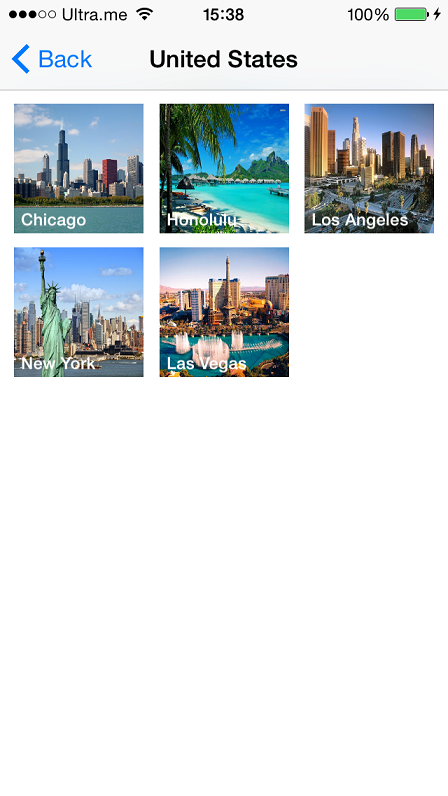
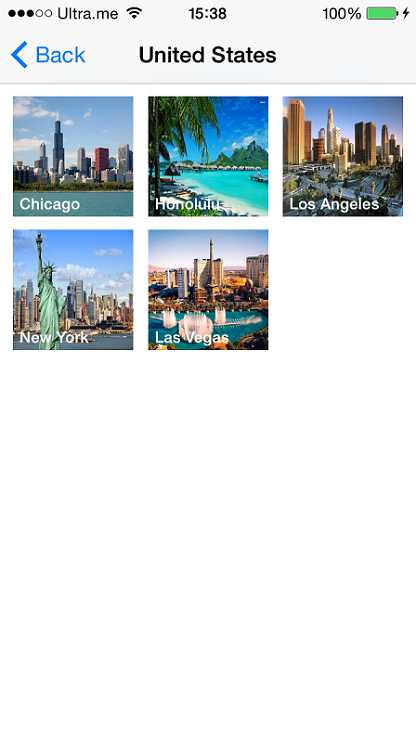
image responsive

diff --git a/_layouts/software.html b/_layouts/software.html
@@ -5,6 +5,7 @@ key: portfolio
 <script>
 	$(document).ready(function(){
 		$('img').addClass('image-software');
+		$('img').addClass('img-responsive');	
 	});
 </script>
 <div style="background:transparent !important" class="jumbotron">

diff --git a/_posts/portfolios/2016-01-30-Travel-Note.md b/_posts/portfolios/2016-01-30-Travel-Note.md
@@ -20,15 +20,15 @@ This iOS App is used to manage itineraries. It's built for my final project of c
 ![trips](/assets/travelnote/trips.png "trips")
 The app provides the ‘Share’ function which enables you to share your trip to others via message, email or Facebook, etc.  
 ![share](/assets/travelnote/share.png "share")
-4. In the Favorites list, you can find the city list which you have marked before.  
+4. In 'My Favorites' list, you can find the city list which you have saved before.  
 ![favorite](/assets/travelnote/favorite.png "favorite")
 5. You can also get the exact coordinates of your current location.  
 ![location](/assets/travelnote/location.png "location")
-6. Search is another main function. You would be able to search your next destination through the path continent->country->city.  
+6. Search is another main function. You would be able to search your next destination by continent, country, then city.  
 ![search](/assets/travelnote/search.png "search")  
 ![countrylist](/assets/travelnote/countrylist.png "countrylist")  
 ![citylist](/assets/travelnote/citylist.png "citylist")
-In the final ‘City Detail’ screen, you will find lots of useful informations, such as map, local time, local weather, famous sights, etc. If you like, you can save the city to your favorite list.  
+In the final ‘City Detail’ screen, you will find lots of useful information, such as map, local time, local weather, famous sights, etc. If you like, you can save the city to your favorite list.  
 ![city](/assets/travelnote/city.png "city")  
 ![city2](/assets/travelnote/city2.png "city2")
 7. Settings  
